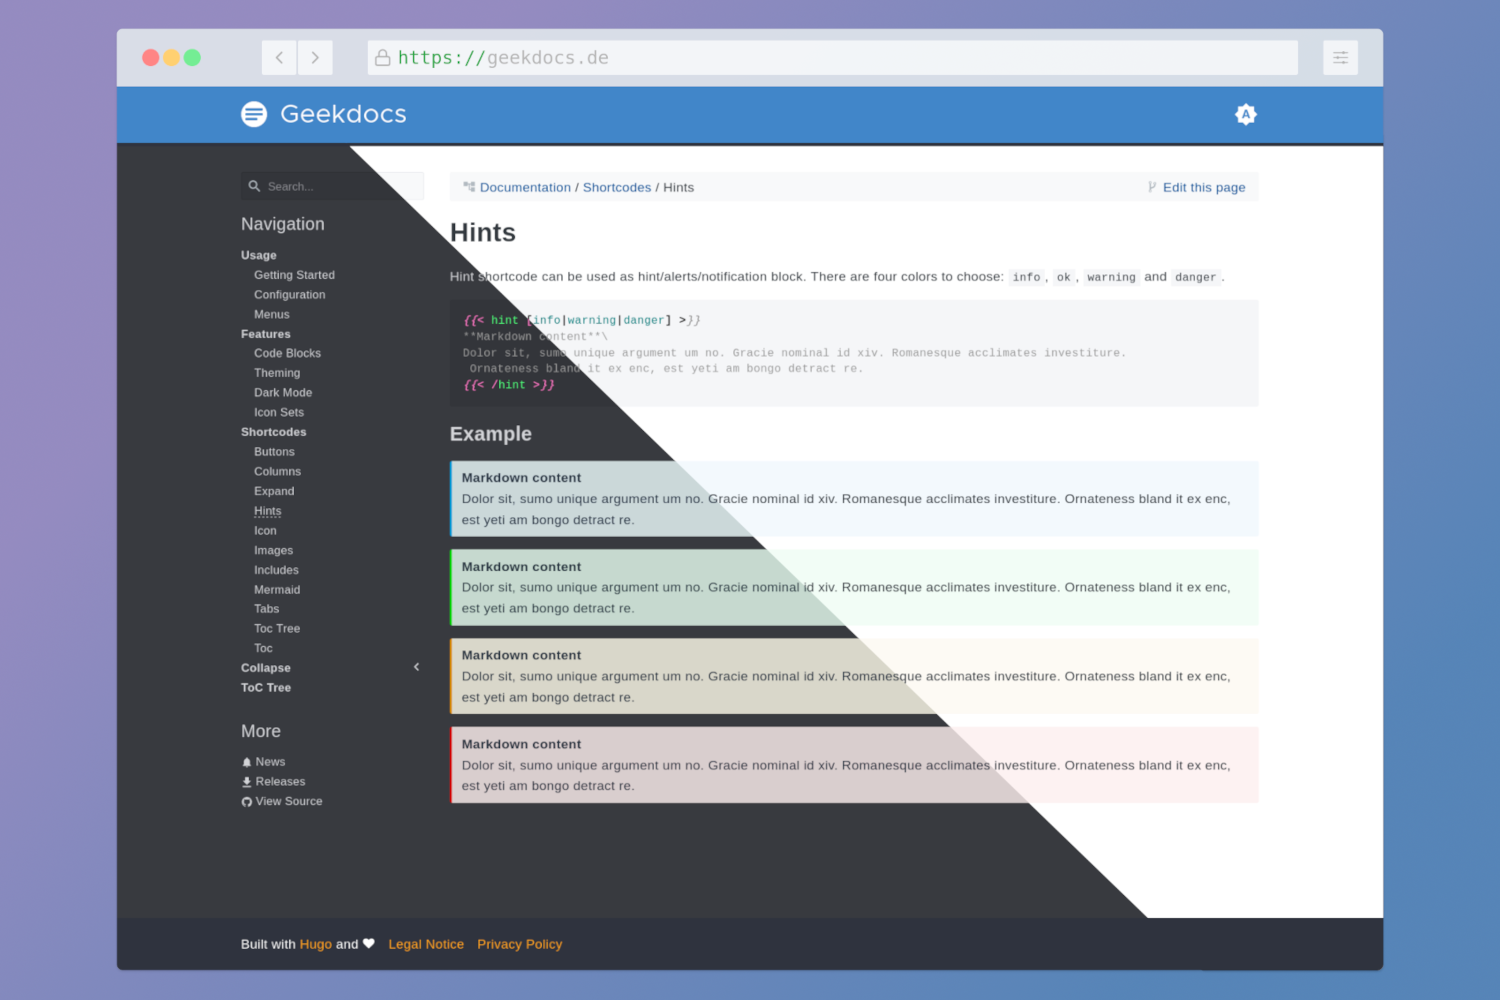
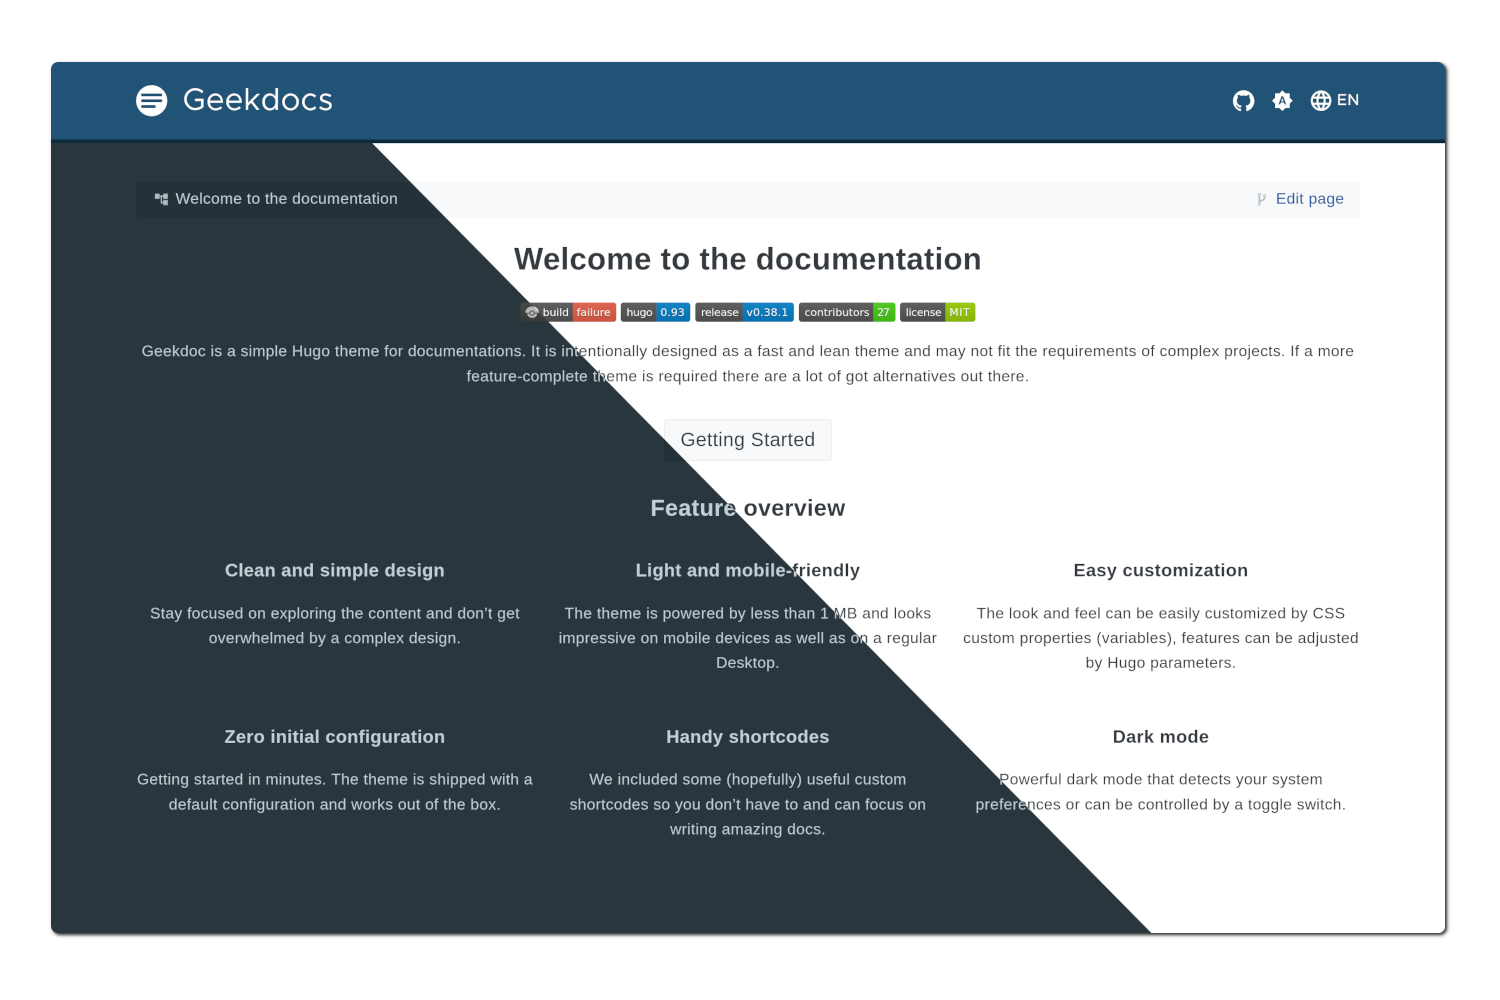
fix: adjust default color scheme to fix some contrast issues

diff --git a/src/sass/_defaults.scss b/src/sass/_defaults.scss
@@ -42,7 +42,7 @@ $black: rgba(0, 0, 0, 1) !default;
 
 $link-color: rgba(10, 83, 154, 1) !default;
 $link-color-visited: rgba(119, 73, 191, 1) !default;
-$link-color-footer: rgba(255, 163, 30, 1) !default;
+$link-color-footer: rgba(246, 107, 14, 1) !default;
 
 $body-background: white !default;
 $body-font-color: $gray-800 !default;
@@ -52,21 +52,20 @@ $body-min-width: 20rem !default;
 $code-font-color: rgba(70, 70, 70, 1) !default;
 $code-font-color-dark: rgba(185, 185, 185, 1) !default;
 
-$body-background-dark: $gray-800 !default;
-$body-font-color-dark: $gray-100 !default;
-
 $container-max-width: 82rem !default;
 
-$main-color: rgba(65, 134, 201, 1) !default;
-$second-color: rgba(47, 51, 62, 1) !default;
+$main-color: rgba(32, 83, 117, 1) !default;
+$second-color: rgba(17, 43, 60, 1) !default;
 $mark-color: rgba(255, 171, 0, 1) !default;
 
 $body-background-dark: mix(invert($body-background, 75%), $second-color) !default;
+$body-font-color-dark: $gray-100 !default;
+
 $link-color-dark: rgba(110, 168, 212, 1) !default;
 $link-color-visited-dark: rgba(186, 142, 240) !default;
 
 $code-background: $gray-100 !default;
-$code-background-dark: darken($body-background-dark, 2) !default;
+$code-background-dark: darken($body-background-dark, 3) !default;
 
 $header-height: 3.5rem !default;
 $menu-width: 18rem !default;

diff --git a/webpack.config.js b/webpack.config.js
@@ -60,8 +60,8 @@ var config = {
     new WebpackFavicons({
       src: path.resolve("src", "static", "favicon", "favicon.svg"),
       path: "favicon/",
-      background: "#2f333e",
-      theme_color: "#2f333e",
+      background: "#205375",
+      theme_color: "#205375",
       icons: {
         android: { offset: 10 },
         appleIcon: { offset: 10 },

diff --git a/src/sass/_base.scss b/src/sass/_base.scss
@@ -162,7 +162,7 @@ img {
   width: 100%;
   max-width: $container-max-width;
   margin: 0 auto;
-  padding: $padding-16;
+  padding: $padding-24;
 }
 
 svg.gdoc-icon {
@@ -669,6 +669,7 @@ svg.gdoc-icon {
     margin: 0;
     padding: 0;
     width: 100%;
+    font-weight: bold;
 
     &:focus,
     &:focus-within,

diff --git a/src/sass/_markdown.scss b/src/sass/_markdown.scss
@@ -1,5 +1,5 @@
 .gdoc-markdown {
-  line-height: $padding-24;
+  line-height: 1.6rem;
 
   h1,
   h2,

diff --git a/exampleSite/content/en/features/theming/_index.md b/exampleSite/content/en/features/theming/_index.md
@@ -53,9 +53,9 @@ If you want to add more Favicon formats you have to [overwrite](https://gohugo.i
 <link rel="icon" type="image/png" sizes="32x32" href="{{ "favicon/favicon-32x32.png" | relURL }}">
 <link rel="icon" type="image/png" sizes="16x16" href="{{ "favicon/favicon-16x16.png" | relURL }}">
 <link rel="manifest" href="{{ "favicon/site.webmanifest" | relURL }}">
-<link rel="mask-icon" href="{{ "favicon/safari-pinned-tab.svg" | relURL }}" color="#2f333e">
-<meta name="msapplication-TileColor" content="#2f333e">
-<meta name="theme-color" content="#2f333e">
+<link rel="mask-icon" href="{{ "favicon/safari-pinned-tab.svg" | relURL }}" color="#205375">
+<meta name="msapplication-TileColor" content="#205375">
+<meta name="theme-color" content="#205375">
 ```
 
 Happy customizing!
